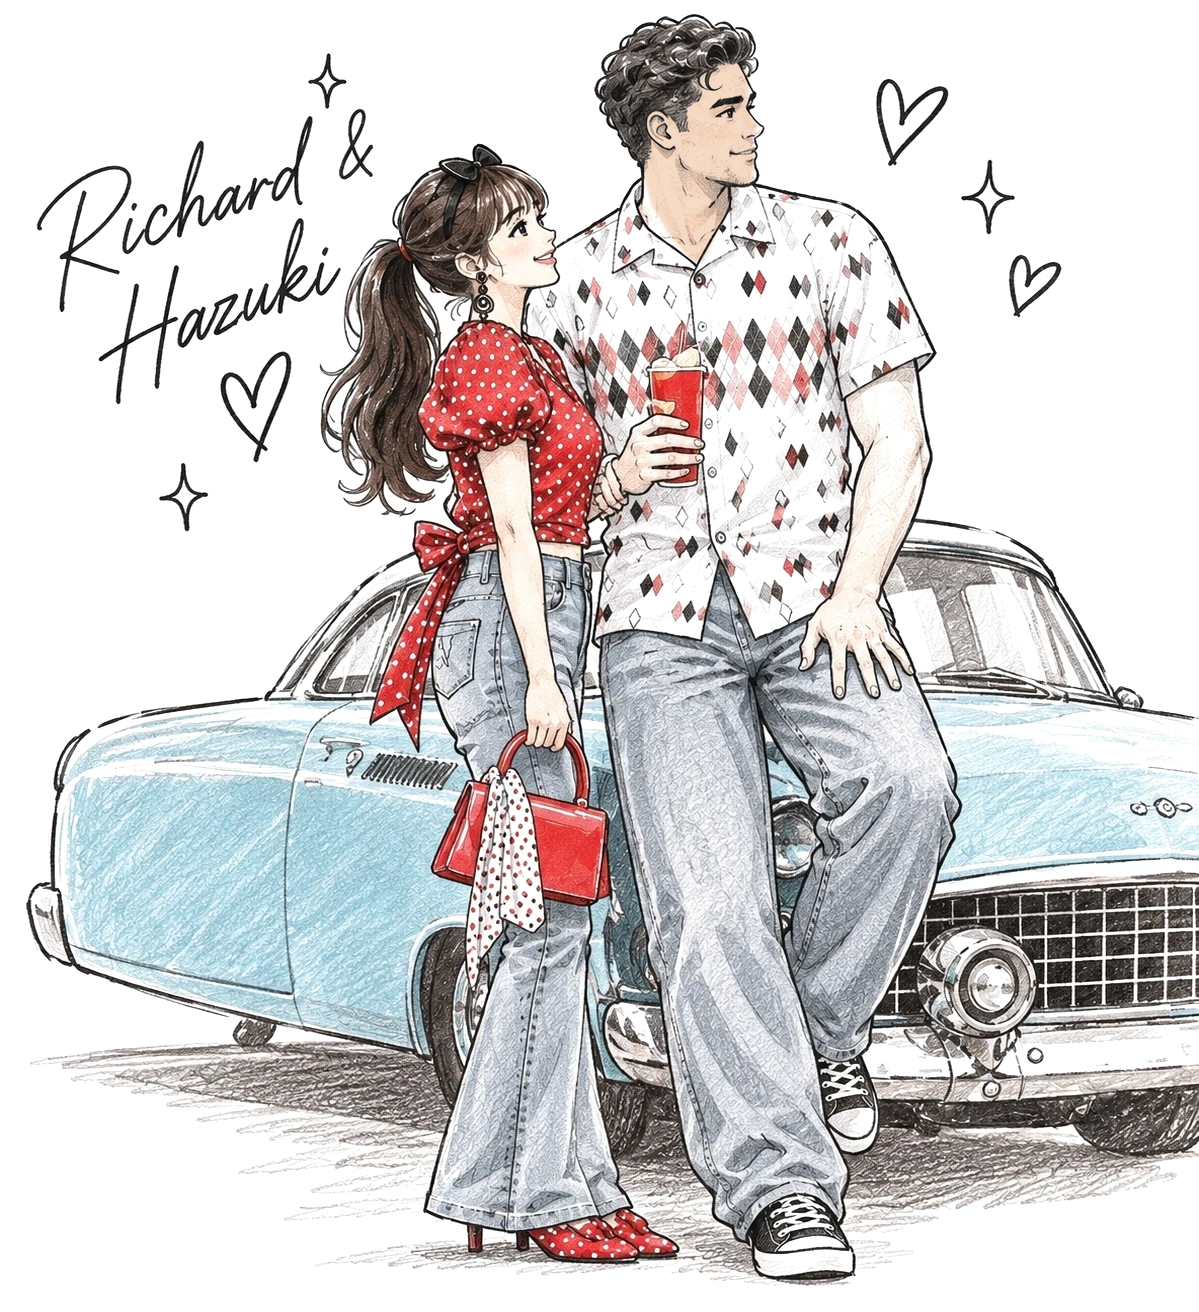
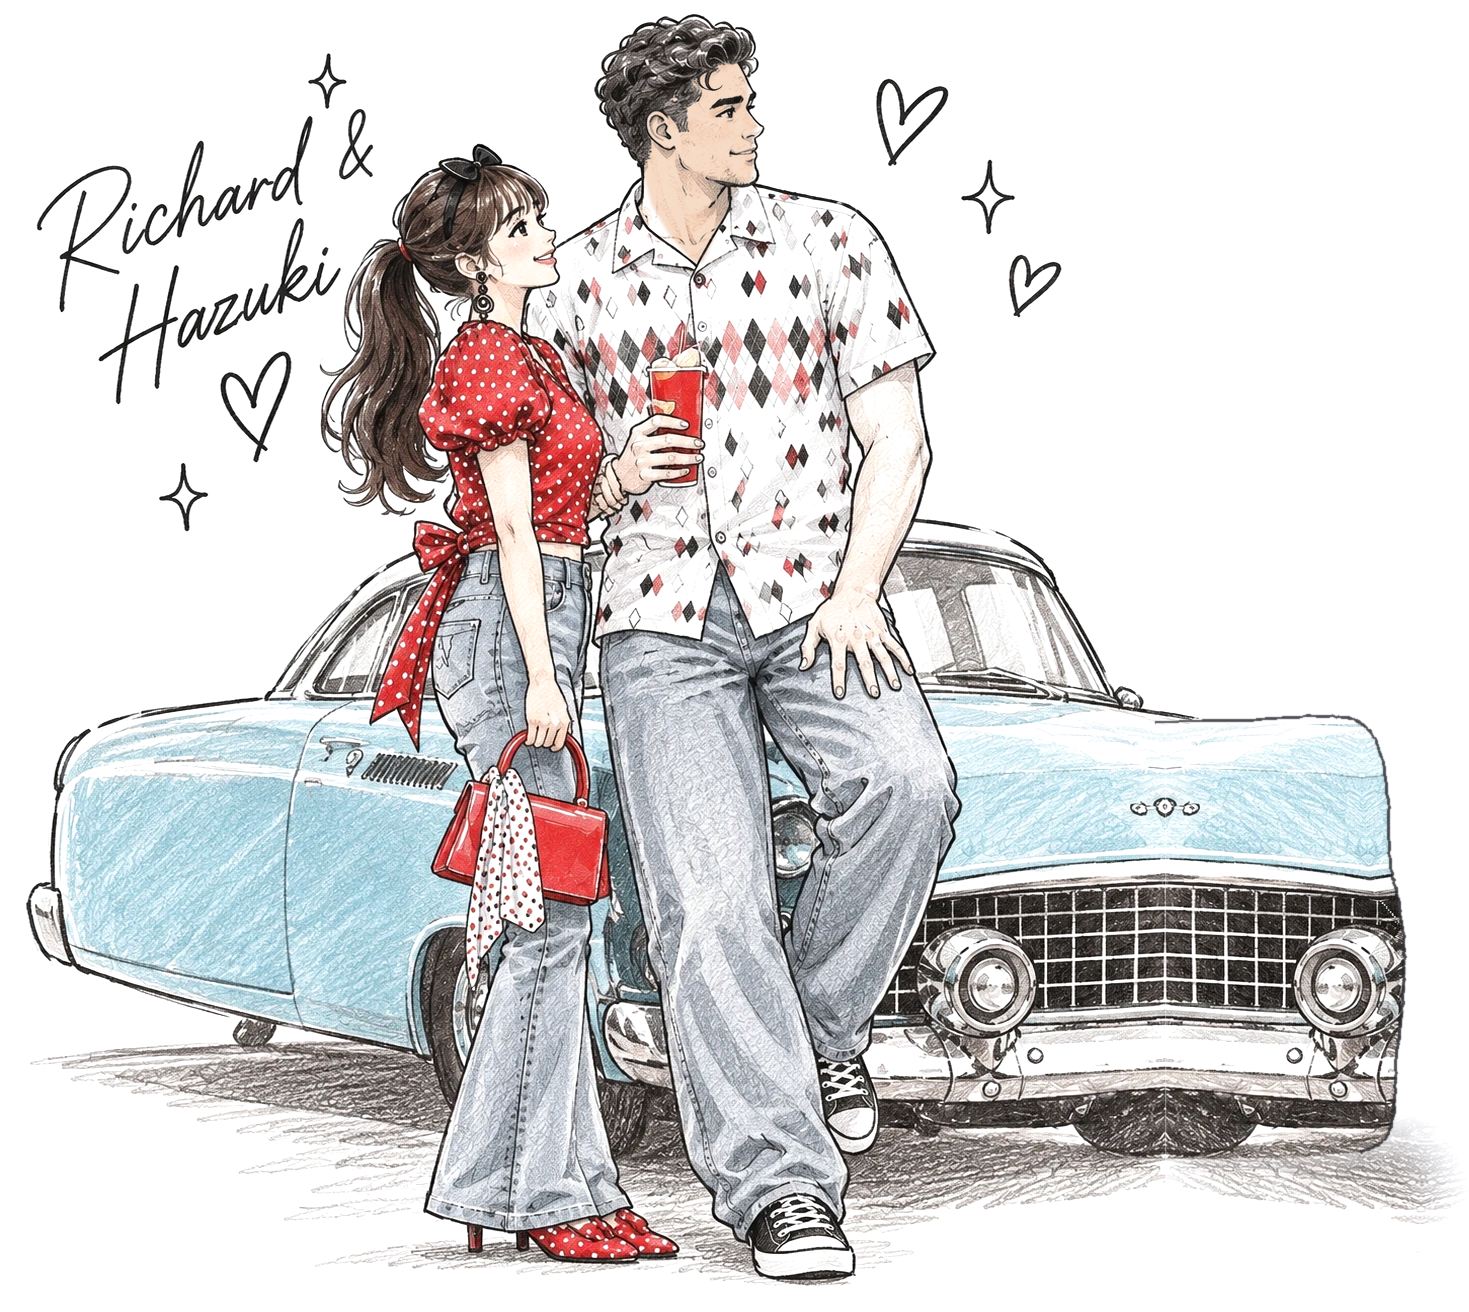
Retro program illustration: complete the car's front
Claude-Session: https://claude.ai/code/session_015f3gzgDT2z4eLoNkfAU2vW

diff --git a/program-retro.html b/program-retro.html
@@ -16,7 +16,7 @@ body{position:relative;overflow:hidden;background:var(--cream);font-family:'R',s
 .frame{position:absolute;inset:4mm;border:0.7mm solid var(--coral);border-radius:3mm}
 .abs{position:absolute}
 /* title */
-.couple{left:7mm;top:6mm;height:62mm}
+.couple{left:7mm;top:6mm;height:58mm}
 .title{left:68mm;top:12mm;width:76mm;text-align:center}
 .title .pre{font-family:'Script';font-size:13pt;color:var(--ink);transform:rotate(-6deg);margin-bottom:-2mm}
 .title .big{font-family:'Brush';font-size:50pt;line-height:1;color:var(--coral);transform:rotate(-6deg);letter-spacing:-0.01em}
@@ -63,7 +63,7 @@ li i{font-style:normal;font-family:'Cond';font-weight:600;font-size:9pt;color:va
 </div>
 
 <!-- left column: part 1 & 2 -->
-<div class="abs col" style="left:9mm;top:70mm">
+<div class="abs col" style="left:9mm;top:66mm">
   <div class="hd"><b>PART 1</b><span>Welcome!</span></div>
   <div class="bar">OPEN 16:30</div>
   <ul>
